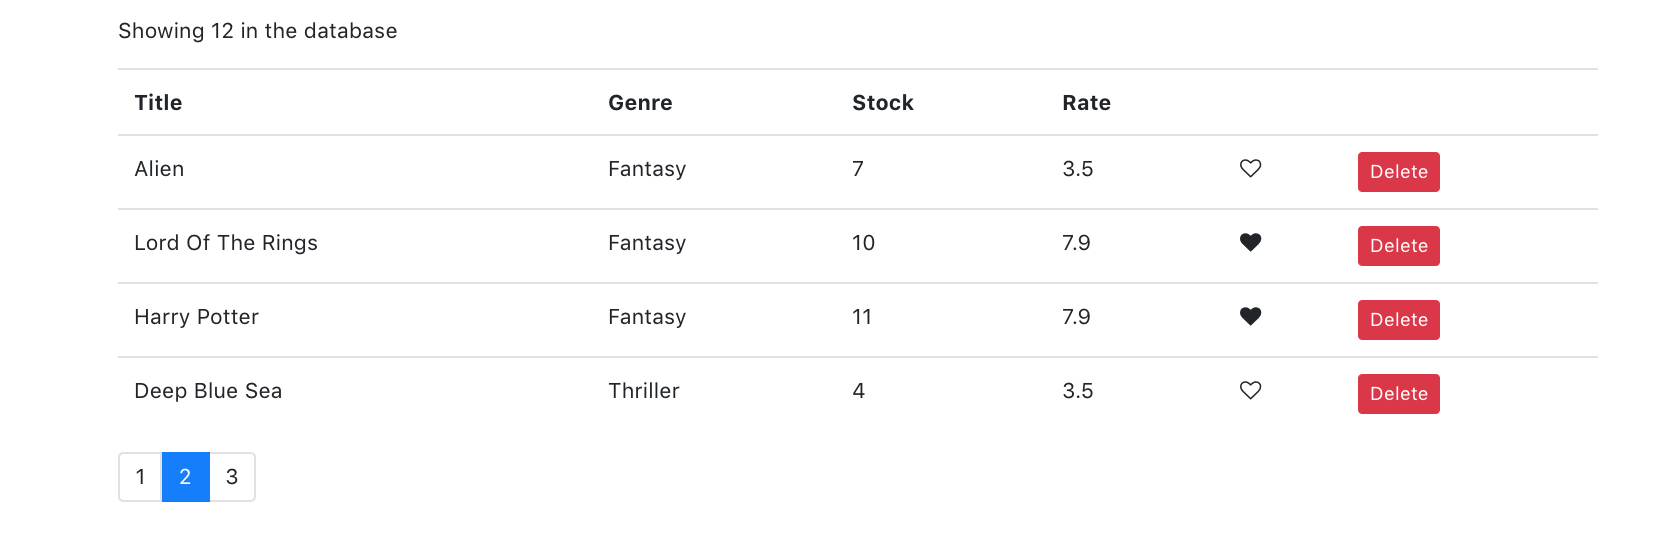
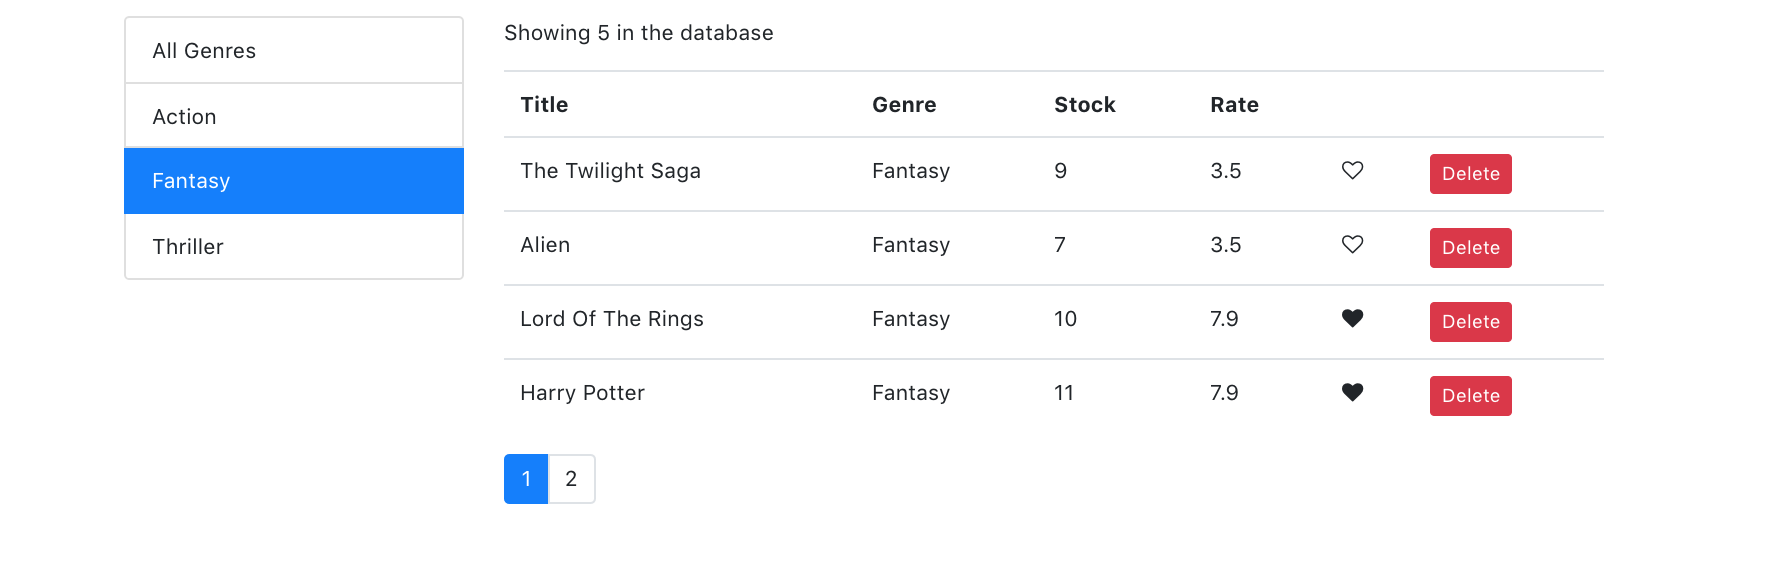
implemented filtering based on genres

diff --git a/src/components/movies.js b/src/components/movies.js
@@ -1,15 +1,28 @@
 import React, {Component} from 'react';
 import {getMovies} from "../services/fakeMovieService";
+import {getGenres} from "../services/fakeGenreService";
 import Like from '../components/common/like';
 import Pagination from '../components/common/pagination';
 import {paginate} from '../utils/paginate';
+import ListGroup from '../components/common/listGroup';
 
 class Movies extends Component {
     state = {
-        movies: getMovies(),
+        movies: [],
+        genres: [],
         currentPage: 1,
         pageSize: 4
     };
+
+
+    componentDidMount() {
+        const genres = [{ name: 'All Genres'}, ...getGenres()];
+        this.setState({
+            movies: getMovies(),
+            genres
+        })
+    }
+
 
     handleDelete = (movie) => {
         const movies = this.state.movies.filter(item => item._id !== movie._id);
@@ -34,56 +47,82 @@ class Movies extends Component {
         })
     };
 
+    handleGenreSelect = (genre) => {
+        this.setState({
+            selectedGenre: genre,
+            currentPage: 1
+        })
+    };
+
     render() {
         const {length: count} = this.state.movies;
-        const {movies: allMovies, pageSize, currentPage} = this.state;
+        const {
+            movies: allMovies,
+            pageSize,
+            currentPage,
+            genres,
+            selectedGenre} = this.state;
 
         if (count === 0) return <p>There are no movies in the database</p>;
 
-        const movies = paginate(allMovies, currentPage, pageSize);
+        const filtered = selectedGenre && selectedGenre._id
+            ? allMovies.filter(item => item.genre._id === selectedGenre._id)
+            : allMovies;
+
+        const movies = paginate(filtered, currentPage, pageSize);
 
         return (
-            <React.Fragment>
-                <p>Showing {count} in the database</p>
-                <table className="table">
-                    <thead>
-                    <tr>
-                        <th>Title</th>
-                        <th>Genre</th>
-                        <th>Stock</th>
-                        <th>Rate</th>
-                        <th />
-                        <th />
-                    </tr>
-                    </thead>
-                    <tbody>
-                    {movies.map(movie => (
-                        <tr key={movie._id}>
-                            <td>{movie.title}</td>
-                            <td>{movie.genre.name}</td>
-                            <td>{movie.numberInStock}</td>
-                            <td>{movie.dailyRentalRate}</td>
-                            <td>
-                                <Like
-                                    liked={movie.liked}
-                                    onClick={() => this.handleLike(movie)} />
-                            </td>
-                            <td>
-                                <button
-                                onClick={() => this.handleDelete(movie)}
-                                className="btn btn-danger btn-sm">Delete
-                                </button>
-                            </td>
+            <div className='row'>
+                <div className="col-3">
+                    <ListGroup
+                        items={genres}
+                        // textProperty='name'
+                        // valueProperty='_id'
+                        selectedItem={selectedGenre}
+                        onItemSelect={this.handleGenreSelect} />
+                </div>
+                <div className="col">
+                    <p>Showing {filtered.length} in the database</p>
+                    <table className="table">
+                        <thead>
+                        <tr>
+                            <th>Title</th>
+                            <th>Genre</th>
+                            <th>Stock</th>
+                            <th>Rate</th>
+                            <th />
+                            <th />
                         </tr>
-                    ))}
-                    </tbody>
-                </table>
-                <Pagination
-                    itemsCount={count}
-                    pageSize={pageSize}
-                    currentPage={currentPage}
-                    onPageChange={this.handlePageChange} />
-            </React.Fragment>
+                        </thead>
+                        <tbody>
+                        {movies.map(movie => (
+                            <tr key={movie._id}>
+                                <td>{movie.title}</td>
+                                <td>{movie.genre.name}</td>
+                                <td>{movie.numberInStock}</td>
+                                <td>{movie.dailyRentalRate}</td>
+                                <td>
+                                    <Like
+                                        liked={movie.liked}
+                                        onClick={() => this.handleLike(movie)} />
+                                </td>
+                                <td>
+                                    <button
+                                        onClick={() => this.handleDelete(movie)}
+                                        className="btn btn-danger btn-sm">Delete
+                                    </button>
+                                </td>
+                            </tr>
+                        ))}
+                        </tbody>
+                    </table>
+                    <Pagination
+                        itemsCount={filtered.length}
+                        pageSize={pageSize}
+                        currentPage={currentPage}
+                        onPageChange={this.handlePageChange} />
+                </div>
+            </div>
         );
     }
 }

diff --git a/src/services/fakeMovieService.js b/src/services/fakeMovieService.js
@@ -21,7 +21,7 @@ const movies = [
   {
     _id: "5b21ca3eeb7f6fbccd471817",
     title: "Mission Impossible",
-    genre: { _id: "5b21ca3eeb7f6fbccd471820", name: "Action" },
+    genre: { _id: "5b21ca3eeb7f6fbccd471818", name: "Action" },
     numberInStock: 8,
     dailyRentalRate: 5.5,
       liked: true
@@ -53,7 +53,7 @@ const movies = [
   {
     _id: "5b21ca3eeb7f6fbccd47181e",
     title: "Harry Potter",
-    genre: { _id: "5b21ca3eeb7f6fbccd471820", name: "Fantasy" },
+    genre: { _id: "5b21ca3eeb7f6fbccd471814", name: "Fantasy" },
     numberInStock: 11,
     dailyRentalRate: 7.9,
       liked: true
@@ -77,7 +77,7 @@ const movies = [
     {
         _id: "5b21ca3eeb7f6fbccd471810",
         title: "Underworld",
-        genre: { _id: "5b21ca3eeb7f6fbccd471810", name: "Thriller" },
+        genre: { _id: "5b21ca3eeb7f6fbccd471820", name: "Thriller" },
         numberInStock: 6,
         dailyRentalRate: 2.5,
         publishDate: "2018-01-03T19:04:28.809Z",
@@ -86,7 +86,7 @@ const movies = [
     {
         _id: "5b21ca3eeb7f6fbccd471812",
         title: "Resident Evil",
-        genre: { _id: "5b21ca3eeb7f6fbccd471812", name: "Thriller" },
+        genre: { _id: "5b21ca3eeb7f6fbccd471820", name: "Thriller" },
         numberInStock: 6,
         dailyRentalRate: 2.5,
         liked: false
@@ -94,7 +94,7 @@ const movies = [
     {
         _id: "5b21ca3eeb7f6fbccd471811",
         title: "The Hobbit",
-        genre: { _id: "5b21ca3eeb7f6fbccd471811", name: "Fantasy" },
+        genre: { _id: "5b21ca3eeb7f6fbccd471814", name: "Fantasy" },
         numberInStock: 10,
         dailyRentalRate: 7.9,
         liked: true

diff --git a/src/components/common/listGroup.js b/src/components/common/listGroup.js
@@ -1,0 +1,32 @@
+import React from 'react';
+
+const ListGroup = (props) => {
+    const {
+        items,
+        textProperty,
+        valueProperty,
+        onItemSelect,
+        selectedItem} = props;
+
+    return (
+        <div>
+            <ul className="list-group">
+                {items.map(item => (
+                    <li key={item[valueProperty]}
+                        onClick={() => onItemSelect(item)}
+                        style={{cursor:'pointer'}}
+                        className={item === selectedItem ? "list-group-item active" : "list-group-item"}>
+                        {item[textProperty]}
+                        </li>
+                ))}
+          </ul>
+        </div>
+        );
+    };
+
+ListGroup.defaultProps = {
+    textProperty: 'name',
+    valueProperty: '_id'
+};
+
+export default ListGroup;

diff --git a/src/index.js b/src/index.js
@@ -5,11 +5,12 @@ import App from './App';
 import * as serviceWorker from './serviceWorker';
 import 'bootstrap/dist/css/bootstrap.css';
 import 'font-awesome/css/font-awesome.css';
+import { BrowserRouter as Router} from 'react-router-dom';
 
 ReactDOM.render(
-  <React.StrictMode>
+  <Router>
     <App />
-  </React.StrictMode>,
+  </Router>,
   document.getElementById('root')
 );
 

diff --git a/README.md b/README.md
@@ -1,4 +1,4 @@
-## Movies App Using React Class Components
+## Movies App Using React Components For Sorting, Filtering, & Pagination of data 
 
 ![](public/movies.png)
 
